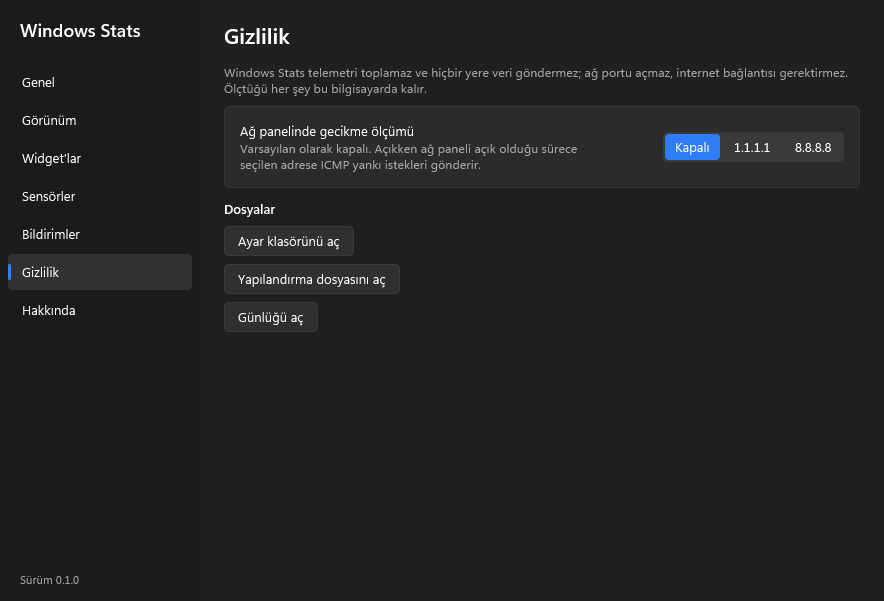
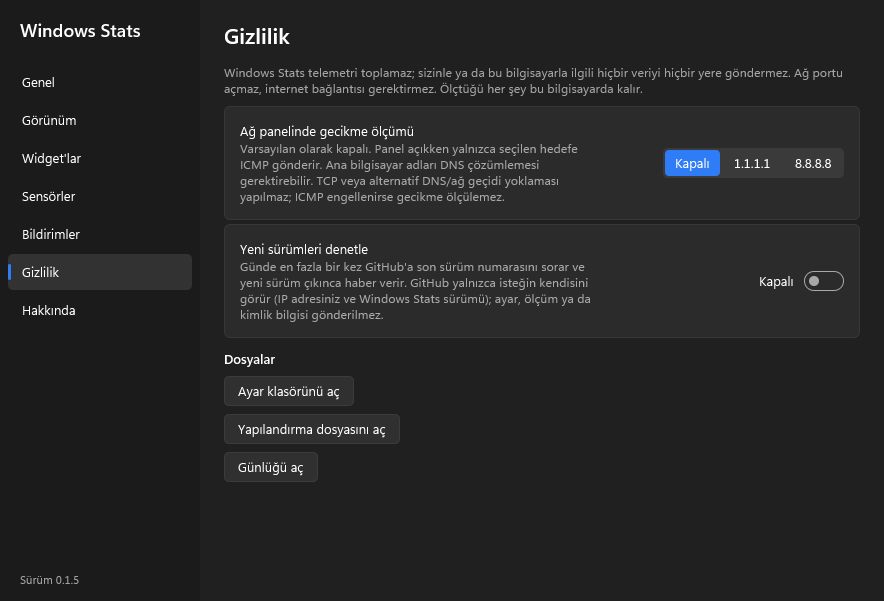
Version 0.1.5
Release notes, and the Privacy screenshot with the update switch
(captured from this build in a scratch settings home).

diff --git a/helpers/sensors/Program.cs b/helpers/sensors/Program.cs
@@ -28,7 +28,7 @@ using LibreHardwareMonitor.Hardware;
 
 static class Program
 {
-    const string Version = "0.1.4";
+    const string Version = "0.1.5";
 
     static int Main(string[] args)
     {

diff --git a/docs/release-notes/0.1.5.md b/docs/release-notes/0.1.5.md
@@ -1,0 +1,33 @@
+## English
+
+Windows Stats 0.1.5 is a reliability release, and the first one you can install from inside the app.
+
+### Fixed
+
+- **The sensor helper starts again by itself.** If the optional sensor helper stops (it crashed or was ended), Windows Stats starts it again after 10 seconds, waiting longer each time while it keeps failing (at most 10 minutes). Settings → Sensors and the Sensors panel say so meanwhile and update as soon as the state changes. Before, the status stayed at "Starting the sensor helper…" until Windows Stats was restarted.
+- **Clearer sensor status.** "Advanced sensors on, without administrator rights (no CPU temperature)" replaces the contradictory "without the PawnIO driver · PawnIO driver installed".
+- **Quiet installs bring the app back.** When `WindowsStats.exe --install --quiet` (used by winget and scripts) closes a running copy to replace it, it now starts Windows Stats again, so an upgrade no longer leaves the taskbar without it.
+- The sensor helper now reports the same version as the app.
+
+### Updating
+
+- **From 0.1.4:** Settings → About → **Check for updates**, then **Update to 0.1.5**. If you allowed the daily check, a card in the corner tells you.
+- **From older versions:** download **WindowsStats-0.1.5-x64.zip**, extract the whole archive and run `Kur.cmd`. Your settings are kept.
+
+---
+
+## Türkçe
+
+Windows Stats 0.1.5 bir sağlamlık sürümü ve uygulamanın içinden kurulabilen ilk sürüm.
+
+### Düzeltmeler
+
+- **Sensör yardımcısı kendiliğinden yeniden başlıyor.** İsteğe bağlı sensör yardımcısı durursa (çöktüyse ya da kapatıldıysa) Windows Stats onu 10 saniye sonra yeniden başlatıyor; durmaya devam ederse her seferinde daha uzun bekliyor (en fazla 10 dakika). Bu sırada Ayarlar → Sensörler ve Sensörler paneli bunu yazıyor ve durum değişince hemen güncelleniyor. Önceden durum, Windows Stats yeniden açılana kadar "Sensör yardımcısı başlatılıyor…" olarak kalıyordu.
+- **Daha anlaşılır sensör durumu.** Çelişkili "PawnIO sürücüsü olmadan · PawnIO sürücüsü kurulu" yerine "Gelişmiş sensörler açık, yönetici izni olmadan (işlemci sıcaklığı yok)" yazıyor.
+- **Sessiz kurulum uygulamayı geri açıyor.** `WindowsStats.exe --install --quiet` (winget ve betikler bunu kullanır) çalışan kopyayı değiştirmek için kapattıysa artık Windows Stats'ı yeniden başlatıyor; güncelleme sonrası görev çubuğu boş kalmıyor.
+- Sensör yardımcısı artık uygulamayla aynı sürüm numarasını gösteriyor.
+
+### Güncelleme
+
+- **0.1.4'ten:** Ayarlar → Hakkında → **Güncellemeleri denetle**, ardından **0.1.5 sürümüne güncelle**. Günlük denetime izin verdiyseniz köşede bir kartla haber verilir.
+- **Daha eski sürümlerden:** **WindowsStats-0.1.5-x64.zip** dosyasını indirin, arşivin tamamını çıkarın ve `Kur.cmd` dosyasını çalıştırın. Ayarlarınız korunur.

diff --git a/README.tr.md b/README.tr.md
@@ -65,7 +65,7 @@ bağdaştırıcı bilgileri ve sürücü etiketleri gizlendi; kapatılan alanlar
 
 **Gizlilik**
 
-![Gecikme ölçümünün kapalı olduğu gizlilik ayarları](docs/images/settings-5.png)
+![Gecikme ölçümünün ve güncelleme denetiminin kapalı olduğu gizlilik ayarları](docs/images/settings-5.png)
 
 **Hakkında**
 

diff --git a/README.md b/README.md
@@ -69,7 +69,7 @@ are redacted in the detail panels; the covered areas are marked `[gizlendi]` (hi
 
 **Privacy**
 
-![Privacy settings with latency measurement disabled](docs/images/settings-5.png)
+![Privacy settings: latency measurement and the update check, both off](docs/images/settings-5.png)
 
 **About**
 
